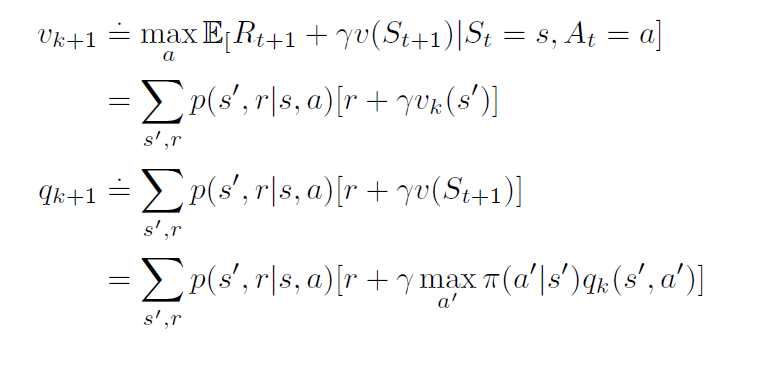
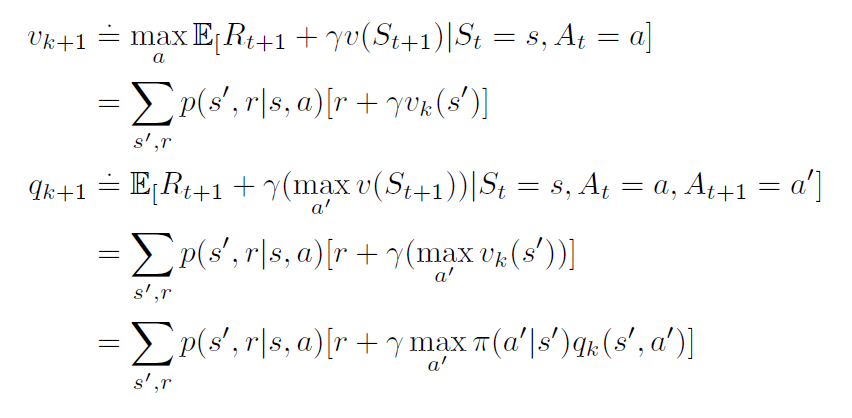
4-10

Changed region(s): [[0.0312, 0.0291, 0.9688, 0.9312]]

diff --git a/solutions/formulas/formulas-chapter4.tex b/solutions/formulas/formulas-chapter4.tex
@@ -104,7 +104,8 @@
   \begin{aligned}
     v_{k+1} & \overset{.}{=} \max_a \mathbb{E}_[ R_{t+1} + \gamma v(S_{t+1})| S_{t}=s, A_{t}=a]\\
     &= \sum_{s',r}p(s',r|s,a)[r+\gamma v_k(s')]\\
-    q_{k+1} & \overset{.}{=} \sum_{s',r}p(s',r|s,a)[r + \gamma v(S_{t+1})]\\
+    q_{k+1} & \overset{.}{=} \mathbb{E}_[ R_{t+1} + \gamma (\max_{a'} v(S_{t+1}))| S_{t}=s, A_{t}=a, A_{t+1}=a']\\
+    &=\sum_{s',r}p(s',r|s,a)[r + \gamma (\max_{a'}v_k(s'))]\\
     &= \sum_{s',r}p(s',r|s,a)[r + \gamma  \max_{a'} \pi(a'|s')q_k(s',a')]
   \end{aligned}
 \]
